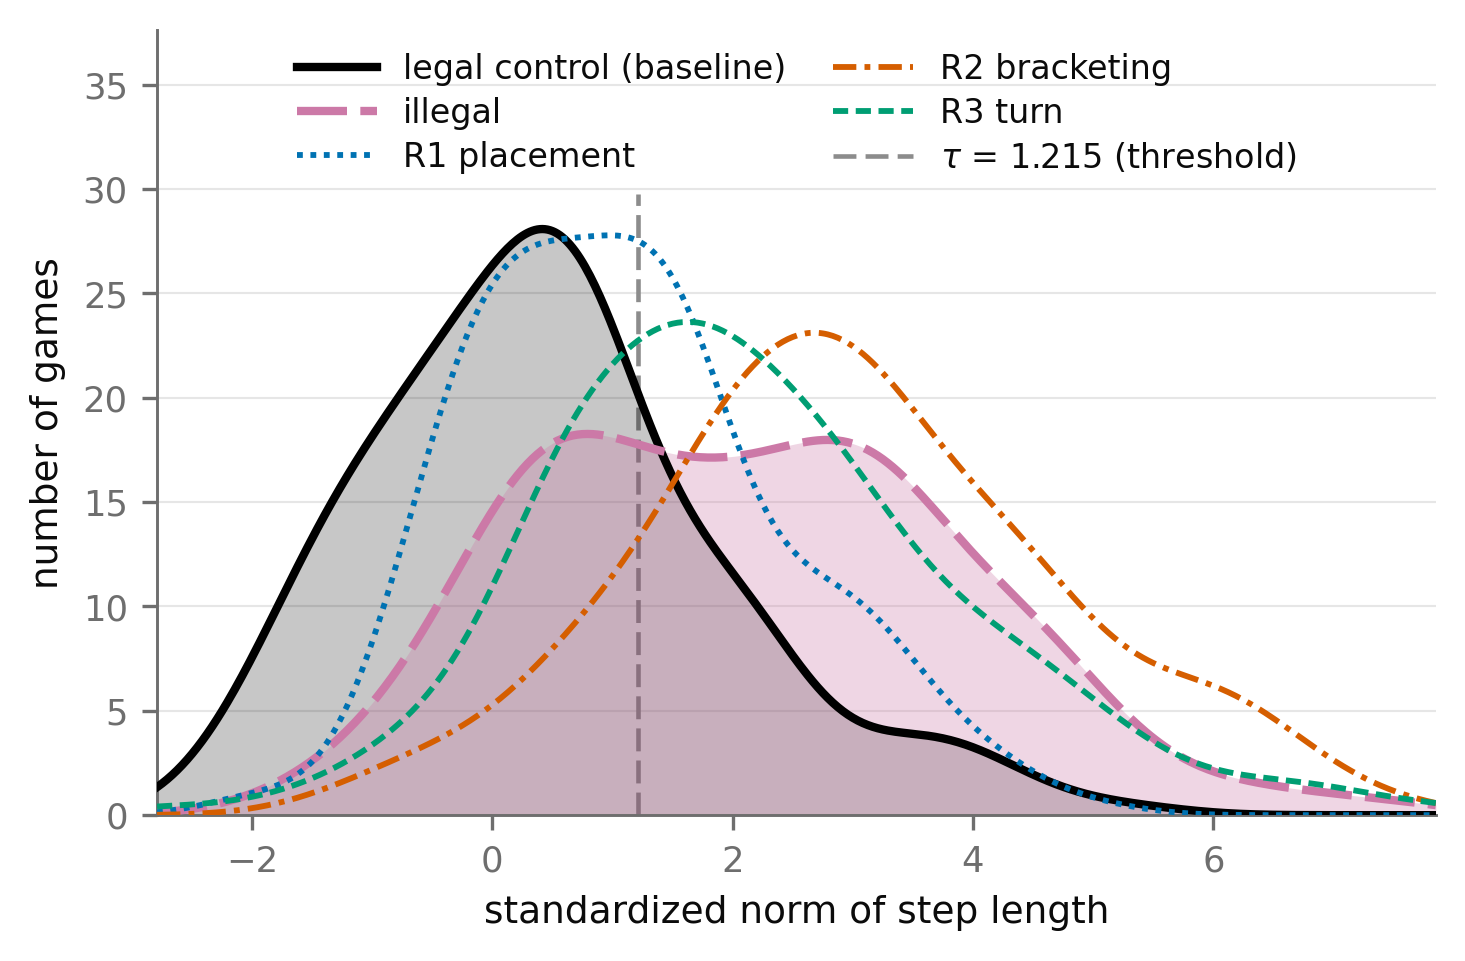
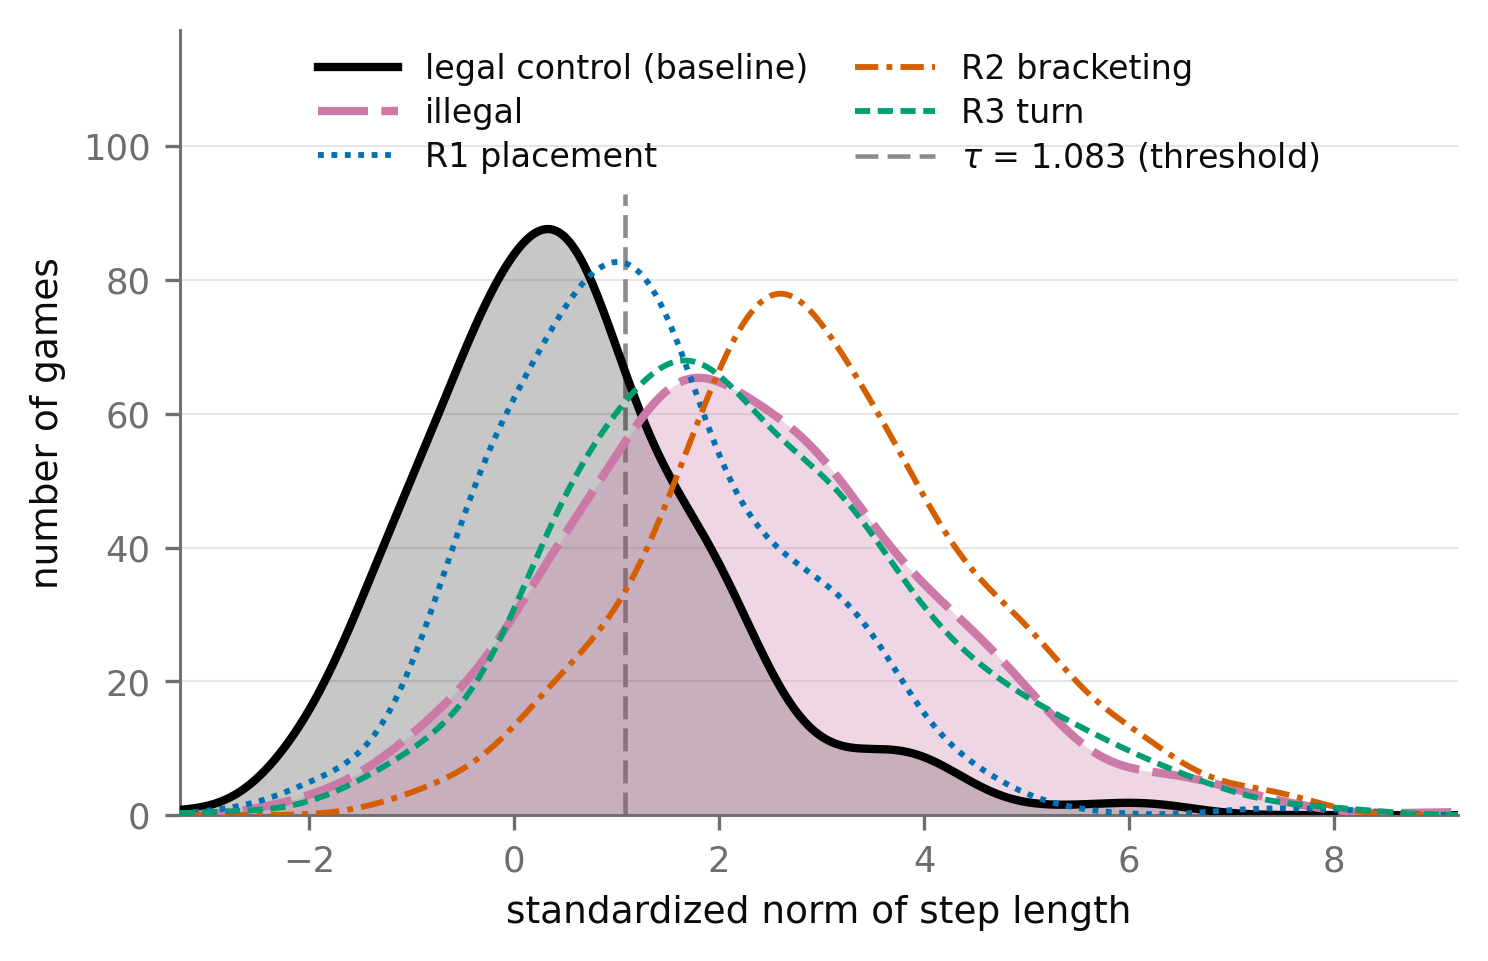
threshold_detection's two panels were computed on two different corpora
Panel (a) read threshold_localization.csv -- the 575 games curvature_discriminant
selected, t0 in [16, 34], 46% of them at t0 = 20 -- while panel (b) drew the
illegal_move_detector corpus. "The same claim at two magnifications" was two game
sets. measure_detector.py runs measure.threshold_row unchanged over the detector
corpus and its committed 500-game evaluation set into results/threshold_detection.csv,
and both panels now assert their own draw against eval_games.csv (detector.assert_eval_set)
before anything is drawn.

d_sae_GatedAnnealTrainer-othello.npz had gone stale under panel (b) and nothing said
so: 20,502 rows from the t0 >= 14 corpus against meta's 21,735, because the cache check
was path.exists(). It is the row count now, and detector.load asserts the same. The eight
SPACE_STYLE dictionaries are encoded on the detector corpus.

Per-space AUROC moves -0.028 (raw L5) to +0.005 (CosineSpaDE); the ordering is unchanged
apart from a TopK/BatchTopK swap inside 0.004. changepoint_localization.csv,
threshold_localization.csv, window_selection.csv, changepoint_by_space*.png,
threshold_detection_regenerated.png, eval_games.csv, auroc_by_rule.* and raw's
score_histograms.* all re-render byte-identically.

diff --git a/analysis/violation_divergence/changepoint_localization/make_figures.py b/analysis/violation_divergence/changepoint_localization/make_figures.py
@@ -12,9 +12,16 @@ still looks like up close, which is a cut sitting inside the overlap rather than
 separated classes. (b) is drawn by `illegal_move_detector.figure_histograms.panel`, the same
 code its own figure uses, so the two cannot drift.
 
+Both panels are the SAME 500 games -- `illegal_move_detector/results/eval_games.csv`, 20 games
+at each of 25 positions -- which is why (a) reads `results/threshold_detection.csv` and not the
+`threshold_localization.csv` beside it. That table is the 575 games of `curvature_discriminant`
+at t0 in [16, 34], a different corpus from the one (b) draws, and two panels on two corpora are
+not two views of one dataset. `measure_detector.py` writes the one they share; both panels
+check their own draw against that file before anything is drawn.
+
 The out-of-fold balanced accuracy that used to be (b) is not lost: it is a column of
-`results/threshold_localization.csv`, and its caveat -- a space can rank well and still have
-no cut that transfers -- is in README.md.
+`results/threshold_detection.csv`, and its caveat -- a space can rank well and still have no
+cut that transfers -- is in README.md.
 
 Sorted by (a), because the ordering is the claim; raw layer 5 keeps reference styling wherever
 it lands, so the reader can see how many dictionaries clear it, and keeping one order across
@@ -40,14 +47,11 @@ from spade.figures.paper_style import (
 HERE = Path(__file__).resolve().parent
 BAR_WIDTH = 0.72
 FALSE_ALARM = ["hit_control", "hit_control2", "hit_reference"]
-# The space (a) ranks first. Its densities are what (b) draws, so the two panels are the same
-# claim at two magnifications rather than two unrelated read-outs.
-HISTOGRAM_SPACE = "GatedAnnealTrainer-othello"
 
 sys.path.insert(0, str(HERE.parent / "illegal_move_detector"))
 
 
-def histogram_panel(ax, space: str) -> None:
+def histogram_panel(ax, space: str) -> int:
     """(b): the five score distributions at t0, in `space`, drawn by their own figure's code."""
     import detector
     from figure_histograms import panel as densities, subset
@@ -59,6 +63,7 @@ def histogram_panel(ax, space: str) -> None:
     tau = detector.operating_point(score, cand, data, sel)
     rows = subset(data, sel)
     densities(ax, {k: detector.at_t0(score, cand, data["t0"], r) for k, r in rows.items()}, tau)
+    return detector.assert_eval_set(data["game_id"][rows["legal"]], data["t0"][rows["legal"]])
 
 
 def panel_letter(ax, i: int) -> None:
@@ -124,24 +129,14 @@ def draw_by_space(table: pd.DataFrame, camera_ready: bool) -> Path:
     return finish(fig, "changepoint_by_space", camera_ready)
 
 
-def threshold_table(table: pd.DataFrame) -> pd.DataFrame:
-    """Sorted by panel (a). Both corpora sort the same way, so a space is one column."""
-    return table.sort_values("auroc_position", ascending=False).reset_index(drop=True)
-
-
-def threshold_top(table: pd.DataFrame) -> float:
-    """One ceiling for both panels: two probability scales sharing a chance line at 0.5."""
-    hi = table[["auroc_position_hi", "balanced_accuracy_hi"]].to_numpy().max()
-    return max(1.05, float(hi) * 1.12)
-
-
 def draw_threshold(table: pd.DataFrame, camera_ready: bool) -> Path:
-    table = threshold_table(table)
+    """Sorted by (a); (b) is whichever space that puts first, so the panels cannot disagree."""
+    table = table.sort_values("auroc_position", ascending=False).reset_index(drop=True)
     fig, axes = plt.subplots(1, 2, figsize=(11.0, 3.6),
                              gridspec_kw={"width_ratios": [1.0, 0.92]})
-    panel(axes[0], table, "auroc_position", "AUROC", 0.5, None, 0, threshold_top(table),
-          "chance")
-    histogram_panel(axes[1], HISTOGRAM_SPACE)
+    panel(axes[0], table, "auroc_position", "AUROC", 0.5, None, 0, 1.05, "chance")
+    n_games = histogram_panel(axes[1], table.space.iloc[0])
+    assert (table.n_games == n_games).all(), "the two panels are not one evaluation set"
     axes[1].text(0.0, 1.02, "(b)", va="bottom", transform=axes[1].transAxes, color=INK,
                  fontsize=9)
     fig.tight_layout()
@@ -157,7 +152,7 @@ def main() -> None:
     results = HERE / "results"
     print(draw_by_space(pd.read_csv(results / "changepoint_localization.csv"),
                         args.camera_ready))
-    print(draw_threshold(pd.read_csv(results / "threshold_localization.csv"),
+    print(draw_threshold(pd.read_csv(results / "threshold_detection.csv"),
                          args.camera_ready))
 
 

diff --git a/analysis/violation_divergence/changepoint_localization/measure_detector.py b/analysis/violation_divergence/changepoint_localization/measure_detector.py
@@ -1,0 +1,74 @@
+"""The thresholded read-out over every space, on the detector study's evaluation set.
+
+`measure.py` scores the 575 games `curvature_discriminant` selected: t0 in [16, 34], and 46%
+of them at t0 = 20, because the tree was forked there before `extend_branches` widened it.
+`illegal_move_detector` holds 2,415 branch-complete games over the whole fork window and deals
+a t0-flat 500 of them -- 20 games at each of 25 positions -- which is the population its own
+figures report. Panel (a) of `threshold_detection` is read beside those figures, so it is
+scored here, on that corpus and those 500 games, rather than on the other one.
+
+The statistic is unchanged: `measure.threshold_row`, the same score read as a per-position
+detector over every candidate ground truth covers. Only the population moves, and
+`results/eval_games.csv` -- written by `illegal_move_detector.figure_auroc` -- is what says the
+population is the same one, checked here rather than assumed.
+
+Writes results/threshold_detection.csv.
+
+Usage: python analysis/violation_divergence/changepoint_localization/measure_detector.py
+"""
+
+import sys
+from pathlib import Path
+
+import numpy as np
+import pandas as pd
+
+from spade.figures.paper_style import DICTIONARIES, REFERENCE_SPACE
+
+HERE = Path(__file__).resolve().parent
+sys.path.insert(0, str(HERE.parent / "illegal_move_detector"))
+
+import detector  # noqa: E402  (sibling study, not an installed package)
+from measure import POOL_ARMS, positions, threshold_row  # noqa: E402
+
+SPACES = [REFERENCE_SPACE] + DICTIONARIES
+
+
+def evaluation(data: dict, sel: dict) -> tuple[dict[str, np.ndarray], np.ndarray]:
+    """Row indices per arm over the committed 500 games, and their t0."""
+    keep = detector.stratified(data, sel)
+    rows = {arm: sel[arm][keep] for arm in POOL_ARMS}
+    t0 = data["t0"][rows["reference"]]
+    detector.assert_eval_set(data["game_id"][rows["reference"]], t0)
+    return rows, t0
+
+
+def line(space: str, cand: np.ndarray, rows: dict, pool) -> dict:
+    d = detector.load(space)
+    s = detector.score(d, cand)
+    return threshold_row(space, {arm: s[r] for arm, r in rows.items()}, pool,
+                         detector.M, detector.PAIRED, detector.SEED)
+
+
+def main() -> None:
+    data = detector.load()
+    cand = detector.band()
+    sel = detector.arms(data)
+    rows, t0 = evaluation(data, sel)
+    pool = positions(data, rows, cand, t0, detector.SEED)
+    print(f"scanning move indices {cand[0] + 2}..{cand[-1] + 2} over {len(t0)} games; "
+          f"{len(pool.label)} positions, {int(pool.label.sum())} illegal "
+          f"({pool.label.mean():.4f} prevalence)")
+
+    table = pd.DataFrame([line(space, cand, rows, pool) for space in SPACES])
+
+    out = HERE / "results" / "threshold_detection.csv"
+    table.round(5).to_csv(out, index=False)
+    print(f"\nwrote {out}")
+    print(table[["space", "auroc_position", "auroc_position_lo", "auroc_position_hi",
+                 "threshold", "balanced_accuracy", "tpr", "tnr"]].round(4)
+          .to_string(index=False))
+
+
+if __name__ == "__main__":
+    main()

diff --git a/analysis/violation_divergence/changepoint_localization/make_figures_regenerated.py b/analysis/violation_divergence/changepoint_localization/make_figures_regenerated.py
@@ -2,8 +2,10 @@
 after t0.
 
 Same panels, same nine spaces, same estimator, same sort order and styling as
-`make_figures.py` -- it imports that module's `panel`, `finish` and threshold helpers rather
-than restating the drawing rules, so the two sets of figures cannot drift apart.
+`make_figures.py` -- it imports that module's `panel` and `finish` rather than restating the
+drawing rules, so the two sets of figures cannot drift apart. The sort and the ceiling are its
+own: this figure keeps the two-panel AUROC + balanced-accuracy layout that the spliced one
+dropped, and a ceiling over both columns is meaningless once there is only one of them.
 
 One axis label had to change in each figure and it is not cosmetic. The straightness violation
 corpus carries no legal-alternative arm, so the contrast is the illegal game against **its own
@@ -27,8 +29,7 @@ from spade.figures.paper_style import apply_style
 
 HERE = Path(__file__).resolve().parent
 sys.path.insert(0, str(HERE))
-from make_figures import (  # noqa: E402  (sibling module)
-    FALSE_ALARM, finish, panel, threshold_table, threshold_top)
+from make_figures import FALSE_ALARM, finish, panel  # noqa: E402  (sibling module)
 
 
 def draw_by_space(table: pd.DataFrame, camera_ready: bool) -> Path:
@@ -53,9 +54,11 @@ def draw_by_space(table: pd.DataFrame, camera_ready: bool) -> Path:
 
 
 def draw_threshold(table: pd.DataFrame, camera_ready: bool) -> Path:
-    table = threshold_table(table)
+    table = table.sort_values("auroc_position", ascending=False).reset_index(drop=True)
     fig, axes = plt.subplots(1, 2, figsize=(7.6, 3.6))
-    top = threshold_top(table)
+    # One ceiling for both panels: two probability scales sharing a chance line at 0.5.
+    hi = table[["auroc_position_hi", "balanced_accuracy_hi"]].to_numpy().max()
+    top = max(1.05, float(hi) * 1.12)
 
     panel(axes[0], table, "auroc_position",
           "per-position AUROC, illegal move vs move in an\n"

diff --git a/analysis/violation_divergence/illegal_move_detector/detector.py b/analysis/violation_divergence/illegal_move_detector/detector.py
@@ -81,7 +81,10 @@ def load(space: str = REFERENCE) -> dict:
     meta = dict(np.load(DIR / "meta.npz"))
     path = geometry_path(space)
     assert path.exists(), f"no geometry for {space}: run extract_geometry.py --spaces {space}"
-    return {"d": np.load(path)["d"].astype(np.float64), "space": space, **meta}
+    d = np.load(path)["d"].astype(np.float64)
+    assert len(d) == len(meta["game_id"]), \
+        f"{path.name} holds {len(d)} rows against meta's {len(meta['game_id'])}: re-extract it"
+    return {"d": d, "space": space, **meta}
 
 
 def legal_profile(held_out: np.ndarray, space: str = REFERENCE) -> tuple[np.ndarray, np.ndarray]:
@@ -129,6 +132,20 @@ def stratified(data: dict, sel: dict, n_games: int = N_EVAL) -> np.ndarray:
     keep = [np.flatnonzero(t0 == v)[np.argsort(game[t0 == v], kind="stable")]
             [:quota + (i < extra)] for i, v in enumerate(values)]
     return np.sort(np.concatenate(keep))
+
+
+def assert_eval_set(game: np.ndarray, t0: np.ndarray) -> int:
+    """Fail unless these are exactly the games results/eval_games.csv names. Returns n.
+
+    `figure_auroc.write_eval_games` writes that file out of `stratified`; every figure read
+    beside those bars -- here and in `changepoint_localization` -- checks its own draw against
+    it rather than trusting that two calls of `stratified` agree.
+    """
+    want = np.loadtxt(RESULTS / "eval_games.csv", delimiter=",", skiprows=1, dtype=int)
+    order = np.argsort(game, kind="stable")
+    assert np.array_equal(game[order], want[:, 0]) and np.array_equal(t0[order], want[:, 1]), \
+        f"{len(game)} games, not the {len(want)} of results/eval_games.csv"
+    return len(want)
 
 
 def at_t0(s: np.ndarray, cand: np.ndarray, t0: np.ndarray, rows: np.ndarray) -> np.ndarray:

diff --git a/analysis/violation_divergence/illegal_move_detector/extract_geometry.py b/analysis/violation_divergence/illegal_move_detector/extract_geometry.py
@@ -56,6 +56,11 @@ def eligible(meta: dict, legal_index: np.ndarray) -> list[int]:
             and T0_RANGE[0] <= t0[g] <= T0_RANGE[1]]
 
 
+def cached(path: Path, n_rows: int) -> bool:
+    """An npz written before the corpus widened holds fewer rows than meta and is stale."""
+    return path.exists() and np.load(path)["d"].shape[0] == n_rows
+
+
 def step_lengths(acts, rows, device, encode=None) -> np.ndarray:
     """Step length per branch row, optionally through a dictionary first."""
     out = []
@@ -90,7 +95,7 @@ def main() -> None:
 
     acts = torch.load(study_dir("divergence") / "acts" / "resid_post_5.pt",
                       weights_only=True, mmap=True)
-    if not (OUT / "d.npz").exists():
+    if not cached(OUT / "d.npz", len(rows)):
         d = step_lengths(acts, rows, device)
         np.savez(OUT / "d.npz", d=d)
         print(f"wrote {OUT}/d.npz  d {d.shape}", flush=True)
@@ -100,7 +105,7 @@ def main() -> None:
     for config in wanted:
         assert config in entries, f"unknown space {config}; have {sorted(entries)}"
         path = OUT / f"d_sae_{config}.npz"
-        if path.exists():
+        if cached(path, len(rows)):
             print(f"{path.name} present, skipping", flush=True)
             continue
         d = step_lengths(acts, rows, device, sae_encoder(entries[config], device))

diff --git a/analysis/violation_divergence/changepoint_localization/README.md b/analysis/violation_divergence/changepoint_localization/README.md
@@ -142,8 +142,9 @@ reading -- sharp turn implies anomaly -- is the wrong sign.
 `located()` names exactly one move per sequence. A legal game therefore cannot come back
 clean, `hit_control` is a pick-a-position rate rather than a false-alarm rate, a game with
 two illegal moves could score at most 1/2, and the 33 candidates that are not the argmax are
-never scored at all. `results/threshold_localization.csv` and
-`results/threshold_localization_regenerated.csv` read the same `s` through a **cut** instead:
+never scored at all. `results/threshold_localization.csv`,
+`results/threshold_detection.csv` and `results/threshold_localization_regenerated.csv` read the
+same `s` through a **cut** instead:
 `s >= tau` at every candidate of every arm that ground truth covers, so a sequence gets zero,
 one, or many flags. The unit of a row there is a *position*, not a game.
 
@@ -183,6 +184,16 @@ Raw layer 5 and the best space, both corpora:
 | regenerated | raw L5 | 0.155 | 0.761 [0.745, 0.777] | 0.782 | 0.704 [0.688, 0.720] | 8.17 |
 | regenerated | GatedAnneal | 0.434 | **0.894** [0.883, 0.905] | 0.960 | **0.819** [0.806, 0.831] | 6.15 |
 
+**The figure and this table are two populations, on purpose.** The table above is
+`threshold_localization.csv`: the 575 games `curvature_discriminant` selected, at *t0* ∈
+[16, 34] with 46% of them at *t0* = 20. `threshold_detection.png` reads
+`results/threshold_detection.csv` instead — `measure_detector.py`, the same estimator on
+`illegal_move_detector`'s corpus and its committed 500-game evaluation set, 20 games at each
+of *t0* = 10…34 — because that figure's second panel is drawn from that set, and two panels on
+two corpora are not two views of one dataset. It costs almost nothing: raw layer 5 goes 0.744
+→ 0.716 and GatedAnneal 0.855 → 0.851, and the space ordering is unchanged apart from a
+TopK / BatchTopK swap inside 0.004.
+
 **The space ordering is the argmax ordering.** Spearman 0.93 against `hit_illegal` on the
 spliced tree; the top six are identical and raw layer 5 is fifth in both. Only the three
 spaces at chance reshuffle. The cut is a more sensitive read of the same signal, not a
@@ -208,24 +219,36 @@ every space: at 1-2% prevalence the accuracy-maximizing cut flags almost nothing
 
 ### Figure notes
 
-`threshold_detection.png` (spliced): (a) per-position AUROC, tie-averaged, illegal positions
-against legal ones, over the nine spaces; (b) the five score distributions at *t0* that AUROC
-summarizes, in **GatedAnneal**, the space (a) ranks first. (b) is drawn by
-`illegal_move_detector.figure_histograms.panel` -- the same code that figure uses, so the two
-cannot drift -- and inherits its evaluation set: 200 games per class, dealt uniformly over `t0`.
-Reading them together is the point: the bar chart says which space orders positions best, and
-the densities say that even there the cut sits inside the overlap rather than between two
-separated classes.
+`threshold_detection.png` (spliced): **both panels are the same 500 games** —
+`illegal_move_detector/results/eval_games.csv`, 20 at each of *t0* = 10…34 — and the figure
+asserts that against the file before it draws either one. (a) per-position AUROC from
+`results/threshold_detection.csv`, tie-averaged, illegal positions against legal ones, over the
+nine spaces, n = 500 games / 34,000 positions, 500 positive (1.47% prevalence); (b) the five
+score distributions at *t0* that AUROC summarizes, in **GatedAnneal**, the space (a) ranks
+first. (b) is drawn by `illegal_move_detector.figure_histograms.panel` -- the same code that
+figure uses, so the two cannot drift -- and its τ = 1.083 is that study's operating point,
+refit on all 2,415 eligible games rather than on the 500 drawn here (for GatedAnneal the two
+fits land on the same observed score; for raw layer 5 they do not). Reading the panels together
+is the point: the bar chart says which space orders positions best, and the densities say that
+even there the cut sits inside the overlap rather than between two separated classes.
+
+This figure carries no strapline, so its keys are here. In (a), hue is the architecture family,
+hatch its second dictionary, and raw layer 5 keeps reference styling wherever it sorts. In (b),
+the curves are **counts, not densities** — a Gaussian KDE at Scott's rule times n times one
+22nd of the pooled range, so a curve reads as games per slice of the axis and one shared width
+keeps the five comparable; the bootstrap band `kde_ci` returns is not drawn, because five
+overlapping bands are unreadable.
 
 `threshold_detection_regenerated.png` still carries the older two-bar-panel layout, (a) AUROC
 beside (b) out-of-fold balanced accuracy. The balanced accuracy the spliced figure dropped is
-a column of `results/threshold_localization.csv`, and the caveat it carried -- a space can
-rank well and still have no cut that transfers -- is under "What the cut finds" above.
+a column of `results/threshold_detection.csv`, and the caveat it carried -- a space can rank
+well and still have no cut that transfers -- is under "What the cut finds" above.
 
 Every interval is a 95% percentile bootstrap
 over **source games as clusters**, 1,000 resamples, seed 42 -- games and never positions,
-because one game's candidates overlap in `m - 1` steps. n is 575 games / 26,252 positions
-(spliced) and 1,000 games / 63,580 positions (regenerated). The dashed gray line is 0.5.
+because one game's candidates overlap in `m - 1` steps. n per table is 575 games / 26,252
+positions (`threshold_localization.csv`), 500 / 34,000 (`threshold_detection.csv`, what the
+spliced figure draws) and 1,000 / 63,580 (regenerated). The dashed gray line is 0.5.
 Panel (a)'s axis label differs between the two figures on purpose: the regenerated corpus has
 no matched legal splice, so its negatives are moves in unspliced legal games.
 

diff --git a/PROCESS.md b/PROCESS.md
@@ -6,6 +6,38 @@ Keep entries short; the code is the source of truth for *what*, this is the *why
 
 ---
 
+## threshold_detection's two panels were two corpora (2026-08-24)
+
+`changepoint_localization/figures/threshold_detection.png` drew (a) from
+`threshold_localization.csv` -- the 575 games `curvature_discriminant` selected, t0 in
+[16, 34], 46% of them at t0 = 20 -- beside (b) from `illegal_move_detector`, a different corpus
+and a different game set. Two panels of "the same claim at two magnifications" were not on the
+same data. New `changepoint_localization/measure_detector.py` runs `measure.threshold_row`
+unchanged over the detector corpus and its committed 500-game evaluation set, into
+`results/threshold_detection.csv`, and the figure reads that. Both panels now assert their own
+draw against `illegal_move_detector/results/eval_games.csv` before anything is drawn
+(`detector.assert_eval_set`), so a silent divergence fails loudly instead.
+
+The estimator did not move: per-space AUROC changes by -0.028 (raw layer 5) to +0.005
+(CosineSpaDE), and the ordering is unchanged apart from a TopK/BatchTopK swap inside 0.004.
+`changepoint_localization.csv`, `threshold_localization.csv`, `window_selection.csv`,
+`changepoint_by_space*.png`, `threshold_detection_regenerated.png`, `eval_games.csv`,
+`auroc_by_rule.*` and raw's `score_histograms.*` all re-render byte-identically.
+
+**`d_sae_GatedAnnealTrainer-othello.npz` had gone stale and nothing said so.** It held 20,502
+rows from the t0 >= 14 corpus while meta.npz held 21,735 after the window widened to t0 >= 10,
+and `extract_geometry.py`'s cache check was `path.exists()`. Panel (b) was drawing it. The
+check is now the row count against meta, and `detector.load` asserts the same thing, so the
+class of bug is closed at both ends. The eight SPACE_STYLE dictionaries are now encoded on the
+detector corpus (kempner_h100, ~3 min for all eight).
+
+**Panel (b)'s tau is still fitted on all 2,415 eligible games**, not on the 500 drawn -- that
+is `illegal_move_detector`'s own operating point and changing it would move
+`score_histograms.png`, which the figure exists to be consistent with. For GatedAnneal the two
+fits land on the same observed score (1.082754); for raw layer 5 they do not (0.814 vs 0.618).
+
+---
+
 ## Four panels of the illegal-move detector (2026-08-24)
 
 New `analysis/violation_divergence/illegal_move_detector/`: the board at t0-2..t0+2 with one

diff --git a/analysis/violation_divergence/illegal_move_detector/README.md b/analysis/violation_divergence/illegal_move_detector/README.md
@@ -54,6 +54,7 @@ out of the baseline it is scored against.
 | `detector_trace.png` | the detector score for that same game over moves *t0*−5 … *t0*+5, three rule arms against the matched legal control, with τ |
 | `auroc_by_rule.png` | AUROC at *t0*, illegal branch against the same game's legal control, pooled and per rule, n = 500 games |
 | `score_histograms.png` | the distributions that AUROC summarizes: the score at *t0* for legal, illegal, R1, R2, R3, the same 500 games, with τ |
+| `score_histograms_GatedAnnealTrainer-othello.png` | the same five distributions read through the GatedAnneal dictionary, same 500 games — panel (b) of `changepoint_localization/figures/threshold_detection.png`, whose panel (a) ranks that space first |
 
 `results/eval_games.csv` is that evaluation set written down — the 500 game ids and their *t0*.
 `move_legality.detection_auroc` reads it for the paired bars of
